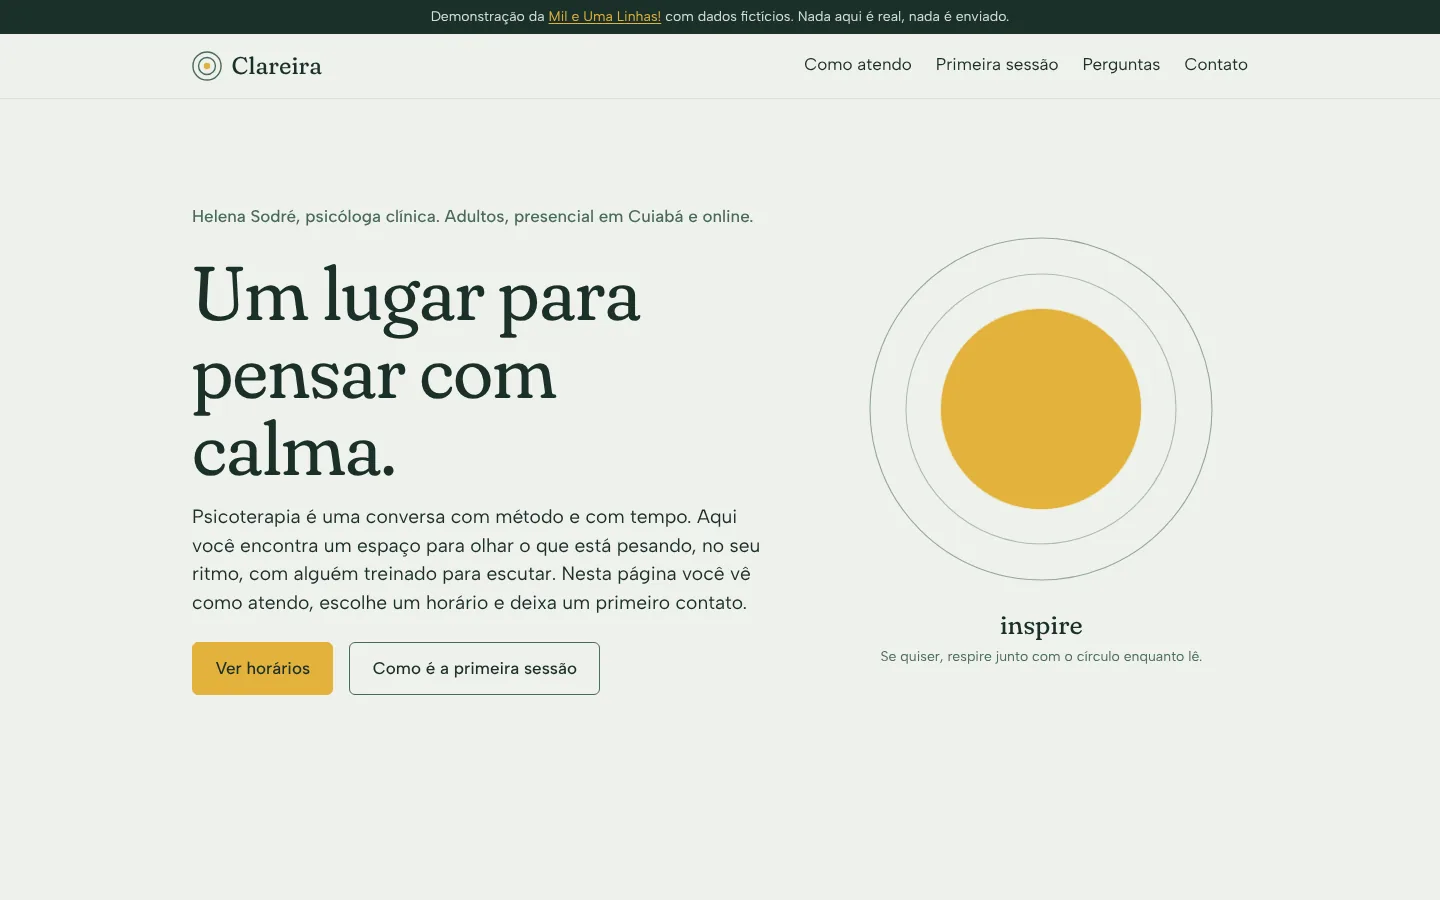
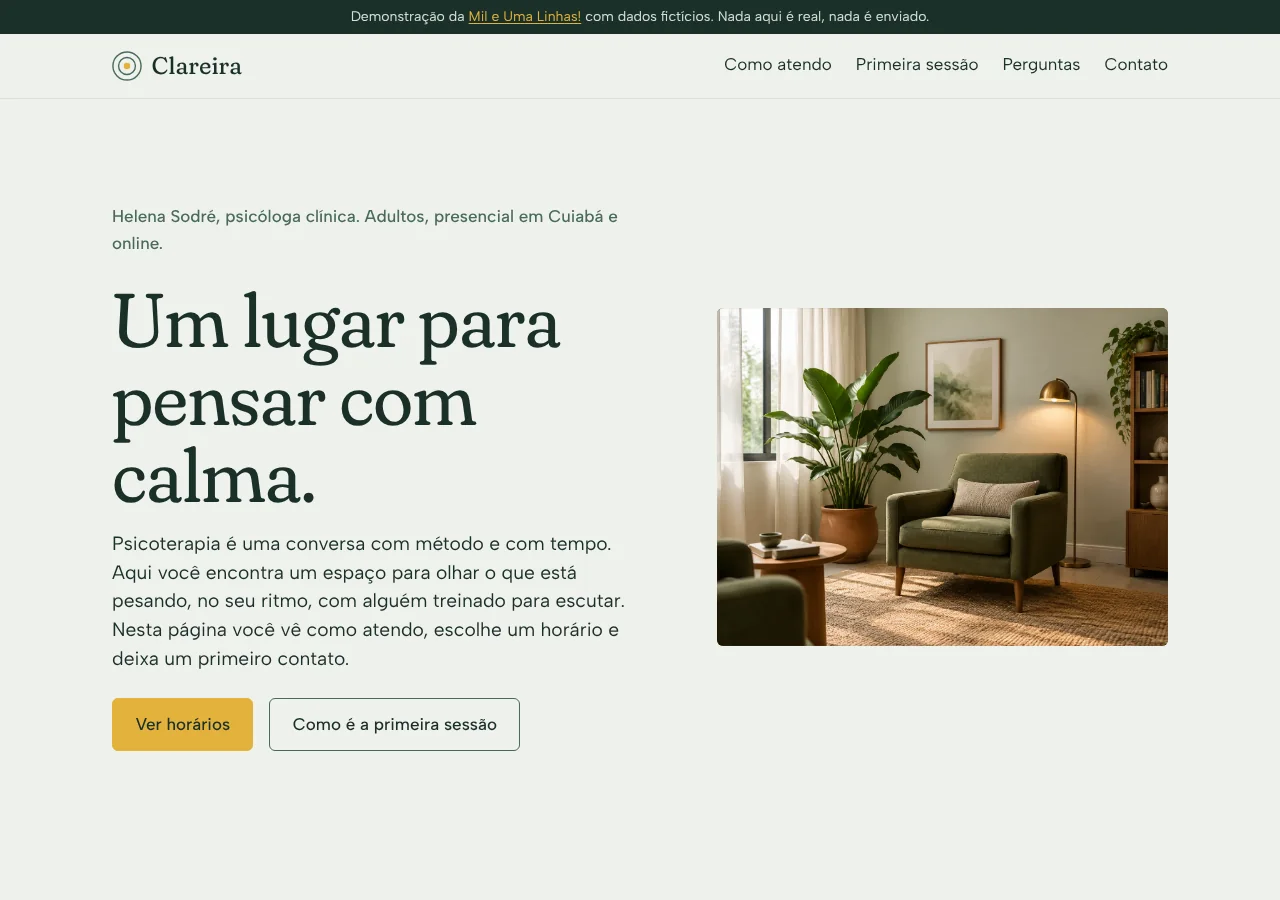
Troca o hero desenhado por foto gerada por IA
Substitui o círculo que respira (SVG) da abertura por uma foto de um
canto de consultório com poltrona verde-musgo (img/hero.webp, 1440x1080,
gerada por IA no Canva e ilustrativa).

- index.html: img.hero-foto com width/height, alt descritivo e
  fetchpriority=high dentro de um contêiner 4:3; CSP mantida; textos da
  seção "Como isto funciona" ajustados (sem o círculo).
- css/estilo.css: contêiner com aspect-ratio 4/3, object-fit cover,
  cantos de 6 px da identidade e cor média da foto como fundo enquanto
  carrega; no celular a foto abre a página e o texto vem logo abaixo; a
  abertura passa a ser um fade de 900 ms (desligado com reduced-motion);
  removidos os estilos da legenda do círculo; o círculo (SVG, anéis e
  disco Sol) continua só na página 404.
- js/site.js: removido o código que trocava a palavra "inspire, segure,
  solte", que não tem mais onde aparecer.
- tests/site.cjs: confere que a foto carregou, tem alt, 4:3, cabe na tela
  e que nenhum texto do hero fica por cima dela.
- docs/identidade.md e README.md: descrevem a foto, o aviso de que é
  gerada por IA, o prompt resumido e a nova regra do Sol na abertura.
- docs/capa-desktop.webp e docs/capa-celular.webp refeitas.

Claude-Session: https://claude.ai/code/session_015DVsuVad392kn1wvAjF541

diff --git a/index.html b/index.html
@@ -54,18 +54,9 @@
             <a class="botao botao-linha" href="#primeira-sessao">Como é a primeira sessão</a>
           </div>
         </div>
-        <figure class="respira" aria-labelledby="respira-legenda">
-          <svg class="respira-svg" viewBox="0 0 400 400" aria-hidden="true" focusable="false">
-            <circle class="anel anel-1" cx="200" cy="200" r="190"/>
-            <circle class="anel anel-2" cx="200" cy="200" r="150"/>
-            <circle class="anel anel-3" cx="200" cy="200" r="110"/>
-            <circle class="sol" cx="200" cy="200" r="60"/>
-          </svg>
-          <figcaption id="respira-legenda" class="respira-legenda">
-            <span class="respira-palavra" data-respira aria-live="off">inspire</span>
-            <span class="respira-nota">Se quiser, respire junto com o círculo enquanto lê.</span>
-          </figcaption>
-        </figure>
+        <div class="abre-foto">
+          <img class="hero-foto" src="img/hero.webp" width="1440" height="1080" alt="Canto de um consultório com uma poltrona verde-musgo e uma almofada clara, uma planta grande em vaso de barro, cortina de linho na janela, quadro de tons verdes na parede e um abajur dourado aceso ao lado de uma estante de madeira." fetchpriority="high">
+        </div>
       </div>
     </section>
 
@@ -313,7 +304,7 @@
       <div class="contem estreito">
         <h2 id="titulo-como">Como isto funciona</h2>
         <h3>Para quem só quer usar</h3>
-        <p>Esta página mostra um consultório de psicologia fictício. Você pode respirar com o círculo, escolher entre presencial e online, ver dias e horários, ler como é a primeira sessão, procurar uma dúvida nas perguntas e preencher um primeiro contato que mostra um resumo na tela. Nenhuma informação sai do seu aparelho.</p>
+        <p>Esta página mostra um consultório de psicologia fictício. Você pode escolher entre presencial e online, ver dias e horários, ler como é a primeira sessão, procurar uma dúvida nas perguntas e preencher um primeiro contato que mostra um resumo na tela. Nenhuma informação sai do seu aparelho.</p>
         <h3>Como funciona por dentro, em linguagem comum</h3>
         <p>O site é um conjunto de arquivos de texto (a página, o estilo e o comportamento) que o navegador lê e monta. A agenda é desenhada pelo próprio navegador a partir da data de hoje, com horários sorteados de um jeito fixo para cada dia, por isso parece viva sem precisar de servidor. O formulário confere o que você digitou (nome, e-mail, modalidade e a caixa de ciência) e, se estiver tudo certo, copia os dados para o bilhete ao lado. Quando você recarrega a página, tudo some: nada fica guardado.</p>
         <details class="tecnico">
@@ -325,9 +316,9 @@
             <li>Agenda: dias úteis gerados a partir de <code>new Date()</code>; horários por função determinística do índice do dia, então o mesmo dia mostra sempre os mesmos horários.</li>
             <li>Formulário com <code>novalidate</code> e validação própria em JavaScript; mensagens de erro ligadas aos campos por <code>aria-describedby</code>; resumo montado com <code>textContent</code>, nunca <code>innerHTML</code>.</li>
             <li>Busca das perguntas: filtro por <code>includes</code> em texto normalizado sem acentos, com contagem em <code>aria-live</code>.</li>
-            <li>Círculo de respiração: SVG inline animado com <code>@keyframes</code>; a palavra troca por <code>setInterval</code> sincronizado ao ciclo de 12 segundos; com <code>prefers-reduced-motion</code> tudo fica estático.</li>
+            <li>Foto da abertura: <code>img/hero.webp</code> (1440 x 1080, gerada por IA, ilustrativa), em contêiner 4:3 com <code>object-fit: cover</code>; com <code>prefers-reduced-motion</code> ela aparece sem animação.</li>
             <li>Sem <code>localStorage</code>, sem cookies, sem requisições de rede além dos próprios arquivos.</li>
-            <li>Testes em <code>tests/site.cjs</code> com Playwright: 1280x900, iPhone 13 e 320px; verifica console, rolagem horizontal e as quatro funções.</li>
+            <li>Testes em <code>tests/site.cjs</code> com Playwright: 1280x900, iPhone 13 e 320px; verifica console, rolagem horizontal, a foto da abertura e as funções.</li>
           </ul>
         </details>
       </div>

diff --git a/css/estilo.css b/css/estilo.css
@@ -177,19 +177,30 @@ code { font-family: ui-monospace, "SF Mono", Menlo, Consolas, monospace; font-si
 .abre { padding: var(--e4) 0 var(--e5); }
 .abre-grade { display: grid; grid-template-columns: 1fr; gap: var(--e3); align-items: center; }
 @media (max-width: 899px) {
-  .abre .respira { order: -1; }
-  .abre .respira-svg { width: 190px; }
-  .abre .respira-palavra { font-size: 1.3rem; min-height: 1.8rem; }
-  .abre .respira-nota { display: none; }
+  .abre { padding-top: var(--e3); }
+  .abre .abre-foto { order: -1; } /* no celular a foto abre a página, o texto vem logo abaixo */
 }
 @media (min-width: 900px) {
   .abre { padding: var(--e6) 0; }
-  .abre-grade { grid-template-columns: 7fr 5fr; gap: var(--e5); }
+  .abre-grade { grid-template-columns: 6fr 5fr; gap: var(--e5); }
 }
 .abre-quem { color: var(--musgo); font-weight: 500; margin-bottom: var(--e3); }
 .lide { font-size: var(--t-lide); line-height: 1.5; max-width: 38em; }
 
-.respira { margin: 0; display: flex; flex-direction: column; align-items: center; text-align: center; }
+.abre-foto {
+  margin: 0;
+  aspect-ratio: 4 / 3;
+  border-radius: var(--raio);
+  overflow: hidden;
+  background: #847457; /* média da foto: aparece enquanto ela carrega */
+}
+.hero-foto { display: block; width: 100%; height: 100%; object-fit: cover; }
+@media (prefers-reduced-motion: no-preference) {
+  .hero-foto { animation: foto-entra 900ms ease-out both; }
+  @keyframes foto-entra { from { opacity: 0; } to { opacity: 1; } }
+}
+
+/* Círculo que respira: hoje só aparece na página 404 */
 .respira-svg { width: min(100%, 360px); height: auto; display: block; }
 .anel { fill: none; stroke: var(--musgo); stroke-width: 1.2; opacity: 0.55; }
 .anel-2 { opacity: 0.4; }
@@ -205,12 +216,6 @@ code { font-family: ui-monospace, "SF Mono", Menlo, Consolas, monospace; font-si
   50% { transform: scale(1.9); }
   100% { transform: scale(1); }
 }
-.respira-legenda { margin-top: var(--e2); }
-.respira-palavra {
-  display: block; font-family: var(--titulo); font-variation-settings: "SOFT" 100, "WONK" 1;
-  font-size: 1.6rem; color: var(--pinho); min-height: 2.2rem;
-}
-.respira-nota { display: block; color: var(--musgo); font-size: var(--t-legenda); }
 
 /* Seções */
 .secao { padding: var(--e5) 0; }

diff --git a/js/site.js b/js/site.js
@@ -25,24 +25,6 @@
     });
   }
 
-  /* ---------- Círculo de respiração ---------- */
-  var palavra = $("[data-respira]");
-  if (palavra) {
-    if (reduzMovimento) {
-      palavra.textContent = "respire";
-    } else {
-      var inicio = Date.now();
-      var CICLO = 12000;
-      var atualizaPalavra = function () {
-        var t = (Date.now() - inicio) % CICLO;
-        var nova = t < 4000 ? "inspire" : t < 6000 ? "segure" : "solte";
-        if (palavra.textContent !== nova) palavra.textContent = nova;
-      };
-      atualizaPalavra();
-      setInterval(atualizaPalavra, 250);
-    }
-  }
-
   /* ---------- Modalidade + agenda simulada ---------- */
   var DIAS_SEMANA = ["dom", "seg", "ter", "qua", "qui", "sex", "sáb"];
   var DIAS_LONGO = ["domingo", "segunda-feira", "terça-feira", "quarta-feira", "quinta-feira", "sexta-feira", "sábado"];

diff --git a/docs/identidade.md b/docs/identidade.md
@@ -23,7 +23,7 @@ Uma clareira é o espaço aberto no meio da mata onde a luz chega. A marca usa e
 
 Regras de uso:
 
-- **Sol aparece em um único lugar por tela**: o círculo de respiração no início, o horário escolhido na agenda, o botão principal do formulário. Nunca em dois elementos ao mesmo tempo na mesma dobra.
+- **Sol aparece em um único lugar por tela**: o botão principal da abertura ("Ver horários"), o horário escolhido na agenda, o botão principal do formulário. Nunca em dois elementos ao mesmo tempo na mesma dobra.
 - Texto sobre Sol é sempre Pinho (contraste 7,1:1). Sol sobre Noite serve só para texto curto e ícones (contraste 8,2:1). Musgo sobre Pedra fica no limite de 4,5:1, então em cartões Pedra o texto secundário usa Pinho.
 - Fundo claro e fundo escuro se alternam por seção para criar ritmo sem precisar de linhas divisórias.
 - Sem gradientes, sem sombras decorativas. Profundidade vem da cor da superfície (Pedra sobre Névoa, Pinho sobre Noite).
@@ -53,22 +53,30 @@ Regra de peso: títulos nunca passam de 500; ênfase no corpo é 600, nunca negr
 ## Layout
 
 - Contêiner de 1120px com margem lateral de 16px no celular e 32px a partir de 720px.
-- Grade de 12 colunas no computador. Texto ocupa 7 colunas, elementos de apoio 5. No celular tudo vira uma coluna.
+- Grade de 12 colunas no computador. Na abertura, o texto ocupa 6 colunas e a foto 5; nas demais seções o texto ocupa 7 e o apoio 5. No celular tudo vira uma coluna.
 - Ritmo de espaçamento em múltiplos de 8px: 8, 16, 24, 40, 64, 104 (seções).
-- Alinhamento à esquerda em tudo, inclusive títulos. Só o círculo de respiração e o aviso de emergência ficam centralizados.
+- Alinhamento à esquerda em tudo, inclusive títulos. Só o aviso de emergência fica centralizado.
 - Cantos arredondados em 6px (campos, botões) e 999px (horários, etiquetas). Nenhum cartão com sombra.
 
 ## Imagem forte
 
-O início mostra **um círculo que respira**: um SVG com anéis concêntricos em Musgo sobre Noite e um disco Sol no centro que cresce em 4 segundos, pausa e encolhe em 6 segundos, ciclo contínuo. Abaixo dele, a palavra muda: "inspire", "segure", "solte". É um objeto útil (a pessoa pode respirar junto) e é a única imagem do site. Sem fotos, sem ilustração de pessoas.
+O início mostra **uma foto de um canto de consultório**, gerada por IA (Canva) e ilustrativa: uma poltrona verde-musgo com uma almofada clara, uma planta grande em vaso de barro, cortina de linho na janela, um quadro de tons verdes, um abajur dourado aceso e uma estante de madeira. A luz é de fim de tarde, quente, e os verdes da cena são os mesmos da paleta (Musgo e Pinho). Não há pessoas. O contêiner tem proporção fixa de 4:3 e cantos de 6 px, como os demais blocos do site. Enquanto a foto carrega, ele mostra a cor média dela.
 
-Nas outras seções a "imagem" é tipográfica: a agenda em grade, o caminho da primeira sessão com uma linha vertical, o resumo do contato como um bilhete.
+Nas outras seções a "imagem" é tipográfica: a agenda em grade, o caminho da primeira sessão com uma linha vertical, o resumo do contato como um bilhete. O círculo que respira (anéis em Musgo e um disco Sol) deixou o início e ficou só na página 404.
+
+### Foto do hero
+
+- **Arquivo**: `img/hero.webp`, 1440 x 1080 px, proporção 4:3.
+- **Origem**: gerada por IA no Canva. O README e este estudo avisam que é ilustrativa.
+- **Prompt resumido**: "Canto de um consultório de psicologia acolhedor: poltrona verde-musgo com almofada de linho, planta grande em vaso de barro, cortina clara na janela, quadro abstrato em tons de verde, abajur de latão aceso, estante de madeira com livros, tapete de fibra natural. Luz quente de fim de tarde, paleta verde, madeira e dourado suave. Estilo editorial de site premium, sem texto, sem pessoas, proporção 4:3."
+- **Texto alternativo**: descreve a cena (poltrona, planta, cortina, quadro, abajur e estante).
+- **Texto do hero**: fica ao lado da foto no computador e abaixo dela no celular, nunca por cima. O contraste do texto é o da página (Pinho sobre Névoa) e não depende da foto.
 
 ## Movimento
 
-- **Um momento orquestrado**: o círculo de respiração, animado em CSS com `animation`, começa assim que a página carrega. Mais nada se move sozinho.
+- **Um momento orquestrado**: a foto do início surge com um fade de 900 ms assim que a página carrega. Mais nada se move sozinho (o círculo da página 404 respira em CSS).
 - **Respostas a ações**: horário escolhido muda de cor em 150ms, passos da primeira sessão deslizam em 200ms, erros do formulário aparecem sem animação.
-- Com `prefers-reduced-motion: reduce` o círculo fica parado no tamanho médio, a palavra fixa em "respire" e as transições somem.
+- Com `prefers-reduced-motion: reduce` a foto aparece sem fade, o círculo da 404 fica parado no tamanho médio e as transições somem.
 
 ## Tom de voz
 

diff --git a/README.md b/README.md
@@ -12,11 +12,10 @@ Endereço publicado: https://toshiro01001.github.io/psicologia/
 
 É uma página única que apresenta um consultório e deixa a pessoa fazer quatro coisas sem sair dela:
 
-1. **Respirar junto com o círculo** da abertura, que cresce e encolhe num ritmo de 12 segundos.
-2. **Escolher entre presencial e online** e ver, numa agenda simulada, os dias e horários das próximas quatro semanas.
-3. **Entender a primeira sessão** em cinco momentos, clicando em cada um.
-4. **Tirar dúvidas** nas perguntas frequentes, com uma busca que filtra enquanto digita.
-5. **Deixar um primeiro contato** num formulário que confere os campos e mostra um resumo na tela.
+1. **Escolher entre presencial e online** e ver, numa agenda simulada, os dias e horários das próximas quatro semanas.
+2. **Entender a primeira sessão** em cinco momentos, clicando em cada um.
+3. **Tirar dúvidas** nas perguntas frequentes, com uma busca que filtra enquanto digita.
+4. **Deixar um primeiro contato** num formulário que confere os campos e mostra um resumo na tela.
 
 Tudo isso funciona no celular, no tablet e no computador.
 
@@ -37,9 +36,10 @@ Tudo isso funciona no celular, no tablet e no computador.
 O estudo completo está em [`docs/identidade.md`](docs/identidade.md).
 
 - **Nome e ideia:** Clareira, o espaço aberto no meio da mata onde a luz chega. Frase: "Um lugar para pensar com calma."
-- **Paleta:** Névoa `#EEF1EC` (fundo), Pinho `#1B3029` (texto), Musgo `#4B6B5E` (apoio), Pedra `#DCE3DB` (superfícies), Noite `#14241F` (seções escuras) e Sol `#E3B23C` (destaque). O Sol aparece em um único elemento por tela: o círculo que respira, o horário escolhido, o botão de conferir.
+- **Paleta:** Névoa `#EEF1EC` (fundo), Pinho `#1B3029` (texto), Musgo `#4B6B5E` (apoio), Pedra `#DCE3DB` (superfícies), Noite `#14241F` (seções escuras) e Sol `#E3B23C` (destaque). O Sol aparece em um único elemento por tela: o botão principal da abertura, o horário escolhido, o botão de conferir.
 - **Fontes:** Fraunces (títulos, com os eixos SOFT e WONK ligados, que dão calor e um pouco de personalidade) e Albert Sans (texto). As duas são locais, em `fonts/`, licença SIL Open Font License.
-- **Por quê:** psicologia pede calma sem frieza. Verde fechado e luz amarela remetem a natureza e acolhimento sem cair no lilás-pastel, no azul de hospital ou no bege com terracota que todo mundo usa. Sem fotos de banco de imagem, sem gradientes, sem sombras: a profundidade vem das cores das superfícies.
+- **Imagem forte:** uma foto de um canto de consultório, com poltrona verde-musgo, planta e luz de abajur, em `img/hero.webp`. **A foto foi gerada por IA no Canva e é só ilustrativa**: o espaço mostrado não existe e não há pessoas nela.
+- **Por quê:** psicologia pede calma sem frieza. Verde fechado e luz amarela remetem a natureza e acolhimento sem cair no lilás-pastel, no azul de hospital ou no bege com terracota que todo mundo usa. Sem fotos de banco de imagem (a da abertura é gerada por IA), sem gradientes, sem sombras: a profundidade vem das cores das superfícies.
 
 Capturas das funções no computador:
 
@@ -64,8 +64,8 @@ O site são três arquivos principais que o navegador lê e monta: `index.html` 
 - Primeira sessão: cinco passos em um array; botões com `aria-current="step"`; painel com `aria-live`.
 - Busca das perguntas: normaliza acentos (`NFD`), filtra por `includes`, abre os `<details>` que combinam, mostra contagem em `aria-live` e aviso quando nada combina.
 - Formulário: `novalidate`, validação própria (nome com sobrenome, e-mail com padrão simples, telefone com 10 ou 11 dígitos quando preenchido, modalidade e caixa de ciência obrigatórias), erros ligados por `aria-describedby` e `aria-invalid`, resumo montado com `textContent`.
-- Acessibilidade: contraste AA em todos os pares (mínimo 4,5:1), foco visível em Sol, navegação por teclado em todos os controles, `lang="pt-BR"`, `prefers-reduced-motion` respeitado (o círculo para e a palavra fixa em "respire").
-- Arquivos de publicação: `404.html` com caminhos absolutos `/psicologia/...`, `robots.txt`, `sitemap.xml`, `google20db0e080e71c701.html`, `favicon.svg`.
+- Acessibilidade: contraste AA em todos os pares (mínimo 4,5:1), foco visível em Sol, navegação por teclado em todos os controles, `lang="pt-BR"`, `prefers-reduced-motion` respeitado (a foto da abertura aparece sem animação).
+- Arquivos de publicação: `404.html` com caminhos absolutos `/psicologia/...`, `robots.txt`, `sitemap.xml`, `google20db0e080e71c701.html`, `favicon.svg` e a foto da abertura em `img/hero.webp`.
 
 ## Como rodar no seu computador
 
